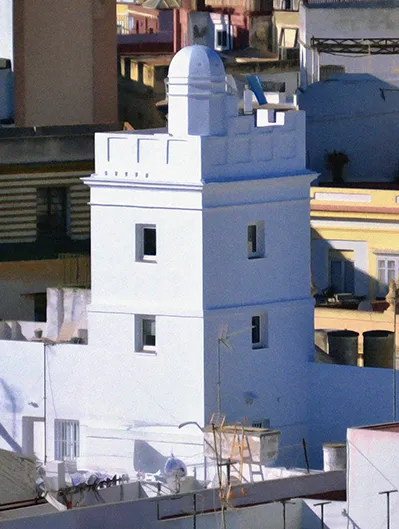
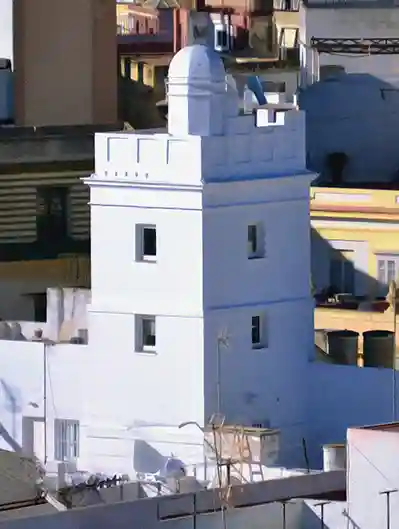
mejoras imagenes

diff --git a/src/torres.html b/src/torres.html
@@ -171,8 +171,8 @@
                                     19vw" type="image/jpg">
 
                                 <img src="assets/images/torres-2-708w.jpg" loading="lazy"
-                                    alt="Torre mirador blanca calada, con una garita en la parte superior." width="399"
-                                    height="529">
+                                    alt="Torre mirador blanca calada, con una garita en la parte superior." width="708"
+                                    height="939">
                             </picture>
 
                         </div>
@@ -213,7 +213,7 @@
                                     19vw" type="image/jpg">
 
                                 <img src="assets/images/torres-3-708w.jpg" loading="lazy"
-                                    alt="Torre mirador de tonos ocres, con forma de Sillón." width="399" height="529">
+                                    alt="Torre mirador de tonos ocres, con forma de Sillón." width="708" height="939">
                             </picture>
 
                         </div>
@@ -254,8 +254,8 @@
                                     19vw" type="image/jpg">
 
                                 <img src="assets/images/torres-6-708w.jpg" loading="lazy"
-                                    alt="Torre mirador Tavira, una de las más famosas de Cádiz." width="399"
-                                    height="529">
+                                    alt="Torre mirador Tavira, una de las más famosas de Cádiz." width="708"
+                                    height="939">
                             </picture>
 
                         </div>
@@ -295,8 +295,8 @@
                                     19vw" type="image/jpg">
 
                                 <img src="assets/images/torres-4-708w.jpg" loading="lazy"
-                                    alt="Dos torres mirador mixtas, una blanca y una de tonos ocres." width="399"
-                                    height="529">
+                                    alt="Dos torres mirador mixtas, una blanca y una de tonos ocres." width="708"
+                                    height="939">
                             </picture>
 
                         </div>

diff --git a/src/styles.css b/src/styles.css
@@ -451,9 +451,14 @@ img {
 }
 
 .tipostorres img {
-    aspect-ratio: 0.75;
     width: 100%;
-    height: auto;
+    object-fit: cover;
+}
+
+.tipostorres picture {
+    display: block;
+    aspect-ratio: 0.75;
+    overflow: hidden;
 }
 
 @media screen and (max-width: 768px) {
